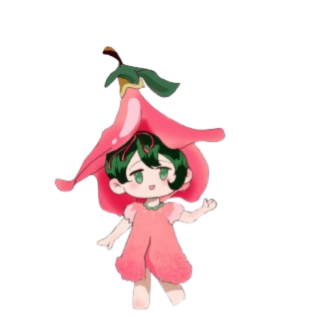
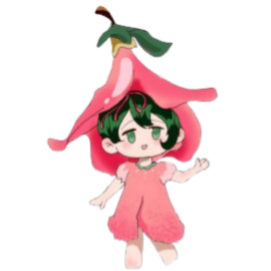
AI对话框头像

Changed region(s): [[0.1476, 0.0, 0.8266, 1.0]]

diff --git a/ai-resume-platform/src/components/AI.vue b/ai-resume-platform/src/components/AI.vue
@@ -50,12 +50,31 @@
               :class="msg.role"
             >
               <div class="message-avatar">
-                {{ msg.role === 'user' ? '👤' : '🌸' }}
+                <img 
+                  v-if="msg.role === 'user' && userAvatar" 
+                  :src="userAvatar" 
+                  class="avatar-image"
+                  alt="用户头像"
+                />
+                <span v-else-if="msg.role === 'user'">👤</span>
+                <img 
+                  v-else-if="msg.role === 'assistant'" 
+                  :src="xiaoyingAvatar" 
+                  class="avatar-image"
+                  alt="小映"
+                />
+                <span v-else>🌸</span>
               </div>
               <div class="message-content" v-html="marked.parse(msg.content)"></div>
             </div>
             <div v-if="isLoading" class="message-item assistant">
-              <div class="message-avatar">🌸</div>
+              <div class="message-avatar">
+                <img 
+                  :src="xiaoyingAvatar" 
+                  class="avatar-image"
+                  alt="小映"
+                />
+              </div>
               <div class="message-content typing">
                 <span></span><span></span><span></span>
               </div>
@@ -90,9 +109,11 @@
 </template>
 
 <script setup>
-import { ref, onMounted, onBeforeUnmount, nextTick,computed } from 'vue'
+import { ref, onMounted, onBeforeUnmount, nextTick, computed } from 'vue'
 import xiaoyingImg from '../assets/imgs/xiaoying.png'
+import xiaoyingAvatar from '../assets/imgs/xiaoying1.png'
 import { aiChat } from '../api/index'
+import { GetUserProfile } from '../api/auth.js'
 import { marked } from 'marked'
 import XiaoyingTips from './AITips.vue'
 
@@ -108,6 +129,10 @@ const inputMessage = ref('')
 const messages = ref([])
 const isLoading = ref(false)
 const sessionId = ref(null)
+
+// 用户信息
+const userProfile = ref(null)
+const userAvatar = ref('')
 
 // 对话框位置和大小
 const dialogLeft = ref(null)
@@ -264,6 +289,20 @@ const stopResize = () => {
   resizeDirection.value = null
 }
 
+// ========== 获取用户信息 ==========
+const fetchUserProfile = async () => {
+  try {
+    const result = await GetUserProfile()
+    if (result.code === 200 && result.data) {
+      userProfile.value = result.data
+      // 优先使用 profileImage，其次使用 avatar
+      userAvatar.value = result.data.profileImage || result.data.avatar || ''
+    }
+  } catch (error) {
+    console.error('获取用户信息失败:', error)
+  }
+}
+
 // ========== 小映交互 ==========
 const handleMouseEnter = () => {
   if (!isHidden.value) {
@@ -354,6 +393,7 @@ const sendMessage = async () => {
     isLoading.value = false
   }
 }
+
 const videoReallyEnded = ref(false)
 let videoEndedCleanup = null
 
@@ -376,6 +416,7 @@ const setupVideoEndedListener = () => {
   }
   return null
 }
+
 // 控制提示组件是否启用（对话框打开时禁用）
 const tipsDisabled = computed(() => {
   if (showDialog.value) return true
@@ -397,6 +438,9 @@ const handleTipShown = (tipInfo) => {
 
 // ========== 生命周期 ==========
 onMounted(() => {
+  // 获取用户信息
+  fetchUserProfile()
+  
   // 初始欢迎语
   messages.value.push({
     role: 'assistant',
@@ -428,7 +472,6 @@ onMounted(() => {
       video.addEventListener('ended', handleVideoEnded)
     }
   }, 1000)
-
 })
 
 onBeforeUnmount(() => {
@@ -622,6 +665,14 @@ onBeforeUnmount(() => {
   justify-content: center;
   font-size: 18px;
   flex-shrink: 0;
+  overflow: hidden;
+}
+
+.avatar-image {
+  width: 100%;
+  height: 100%;
+  object-fit: cover;
+  border-radius: 50%;
 }
 
 .message-item.user .message-avatar {
